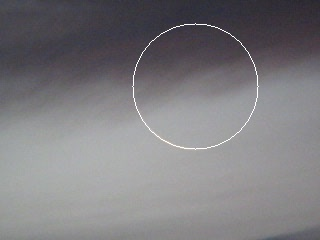
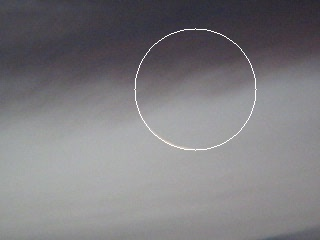
before using tophat

diff --git a/src/FRHT.java b/src/FRHT.java
@@ -50,40 +50,37 @@ public class FRHT {
 		*/
 		
 		int nrandom = 200;
-		int window = 60;
-		double mratio = 0.22985;
+		int window = 100;
+		double mratio = 0.22;
+		
+		
 		
 		Mat dst = new Mat();
-		Mat src = Imgcodecs.imread("data/test.jpg", Imgcodecs.CV_LOAD_IMAGE_COLOR);
-		Imgproc.cvtColor(src, dst, Imgproc.COLOR_BGR2GRAY);
-		
-		Mat edged = edgeDetector(dst);
-		
-		String res = doFRHT(edged, nrandom,  window, mratio);
-		
-		if(res !=""){
-			String[] det = res.split(";");
-			Scalar warna = new Scalar(255,255,255);
-			src.copyTo(dst);
-			Imgproc.circle(dst, new org.opencv.core.Point(Double.valueOf(det[0]),Double.valueOf(det[1])), Double.valueOf(det[2]).intValue(), warna);
+		for(int i = 390;i<391;i++){
+			System.out.println(i);
+			Mat matSrc = Imgcodecs.imread("data/test.jpg", Imgcodecs.CV_LOAD_IMAGE_COLOR);
 			
-			Mat finale = new Mat();
-			List<Mat> alist = Arrays.asList(src, dst);
-			Core.hconcat(alist, finale);
-			Imgcodecs.imwrite("saved7Circled.jpg", dst);
-			Imgcodecs.imwrite("saved8Result.jpg", finale);
+			Imgproc.cvtColor(matSrc, dst, Imgproc.COLOR_BGR2GRAY);
+			
+			Mat edged = edgeDetector(dst);
+			
+			String res = doFRHT(edged, nrandom,  window, mratio);
+			
+			if(res !=""){
+				String[] det = res.split(";");
+				Scalar warna = new Scalar(255,255,255);
+				matSrc.copyTo(dst);
+				Imgproc.circle(dst, new org.opencv.core.Point(Double.valueOf(det[0]),Double.valueOf(det[1])), Double.valueOf(det[2]).intValue(), warna);
+				
+				Mat finale = new Mat();
+				List<Mat> alist = Arrays.asList(matSrc, dst);
+				Core.hconcat(alist, finale);
+				Imgcodecs.imwrite("saved7Circled.jpg", dst);
+				Imgcodecs.imwrite("data/input/saved8Result"+i+".jpg", finale);
+			}
 		}
 	}
 	
-	private static Mat addTo(Mat matA, Mat matB) {
-	    Mat m = new Mat(matA.rows(), matA.cols() +  matB.cols(), matA.type());
-	    int aCols = matA.cols();
-	    int aRows = matA.rows();
-	    m.rowRange(0, aRows-1).colRange(0, aCols-1);
-	    m.rowRange(0, aRows-1).colRange(aCols, (aCols*2)-1);
-	    return m;
-	}
-
 	static class Point {
 		Integer x;
 		Integer y;
@@ -167,7 +164,6 @@ public class FRHT {
 	public static void preprocess(Mat src) {
 
 		// Strel
-		
 		Imgcodecs.imwrite("saved1Gray.jpg", src);
 		int morph_size = 3;
 		Mat element = Imgproc.getStructuringElement(Imgproc.MORPH_ELLIPSE,
@@ -185,34 +181,46 @@ public class FRHT {
 		// Adjusting
 		Imgproc.equalizeHist( dst, dst );
 		Imgcodecs.imwrite("saved3Adjust.jpg", dst);
-		
-		
-		
-		//Imgcodecs.imwrite("saved31Adjust.jpg", dst);
-		//Imgproc.morphologyEx(dst, dst, 3, element);
-		//Imgcodecs.imwrite("savedClosed.jpg", dst);
-		
-		//Imgproc.morphologyEx(dst, dst, 2, element);
-		//Imgcodecs.imwrite("savedOpened.jpg", dst);
-		
+	
 	}
 	
 	
-	public static void segmentasi(Mat src){
+	public static Mat segmentasi(Mat src){
 		int morph_size = 3;
 		Mat element = Imgproc.getStructuringElement(Imgproc.MORPH_ELLIPSE,
 				new Size(2 * morph_size + 1, 2 * morph_size + 1), new org.opencv.core.Point(3, 3));
 		
-		Mat element1 = Imgproc.getStructuringElement(Imgproc.MORPH_ELLIPSE,
-				new Size(2 * 1 + 1, 2 * 1 + 1), new org.opencv.core.Point(1, 1));
+		Mat element1 = Imgproc.getStructuringElement(Imgproc.MORPH_CROSS,
+				new Size(3,3));
 
 		Mat dst = new Mat();
+		Core.bitwise_not(src, src);
 		Imgproc.morphologyEx(src, dst, 3, element);
-		Imgcodecs.imwrite("saved5Closed.jpg", dst);
+		Imgcodecs.imwrite("saved5Closed.jpg", dst);	
+		
+		boolean done;
+		
+		Mat skel = new Mat(dst.size(), CvType.CV_8UC1, new Scalar(0));
+		
+		Mat eroded = new Mat();
+		Mat temp = new Mat();
+		do{
+			Imgproc.erode(dst, eroded, element1);
+			Imgproc.dilate(eroded, temp, element1);
+			Core.subtract(dst, temp, temp);
+			Core.bitwise_or(skel, temp, skel);
+			eroded.copyTo(dst);
+			done = (Core.countNonZero(dst) == 0);
+		}
+		while(!done);
+		
+		Imgcodecs.imwrite("saved6Opened.jpg", dst);
 				
 		//Imgproc.morphologyEx(dst, dst, 2, element1);
 		//Imgcodecs.imwrite("saved6Opened.jpg", dst);
 		
+		
+		return dst;
 	}
 	
 	
@@ -229,6 +237,10 @@ public class FRHT {
 					edge.add(new Point(j, i));
 				}
 			}
+		}
+		
+		if(edge.size()==0){
+			return "";
 		}
 		
 		for (int n = 0; n < nrandom; n++) {
@@ -287,7 +299,7 @@ public class FRHT {
 				}
 			}
 
-			Double ratio = (double) count / (2 * 3.14 * Double.valueOf(det[2]));
+			Double ratio = (double) count / (2 * Math.PI * Double.valueOf(det[2]));
 
 			if(ratio>mratio){
 				System.out.println(count + " " + ratio);
